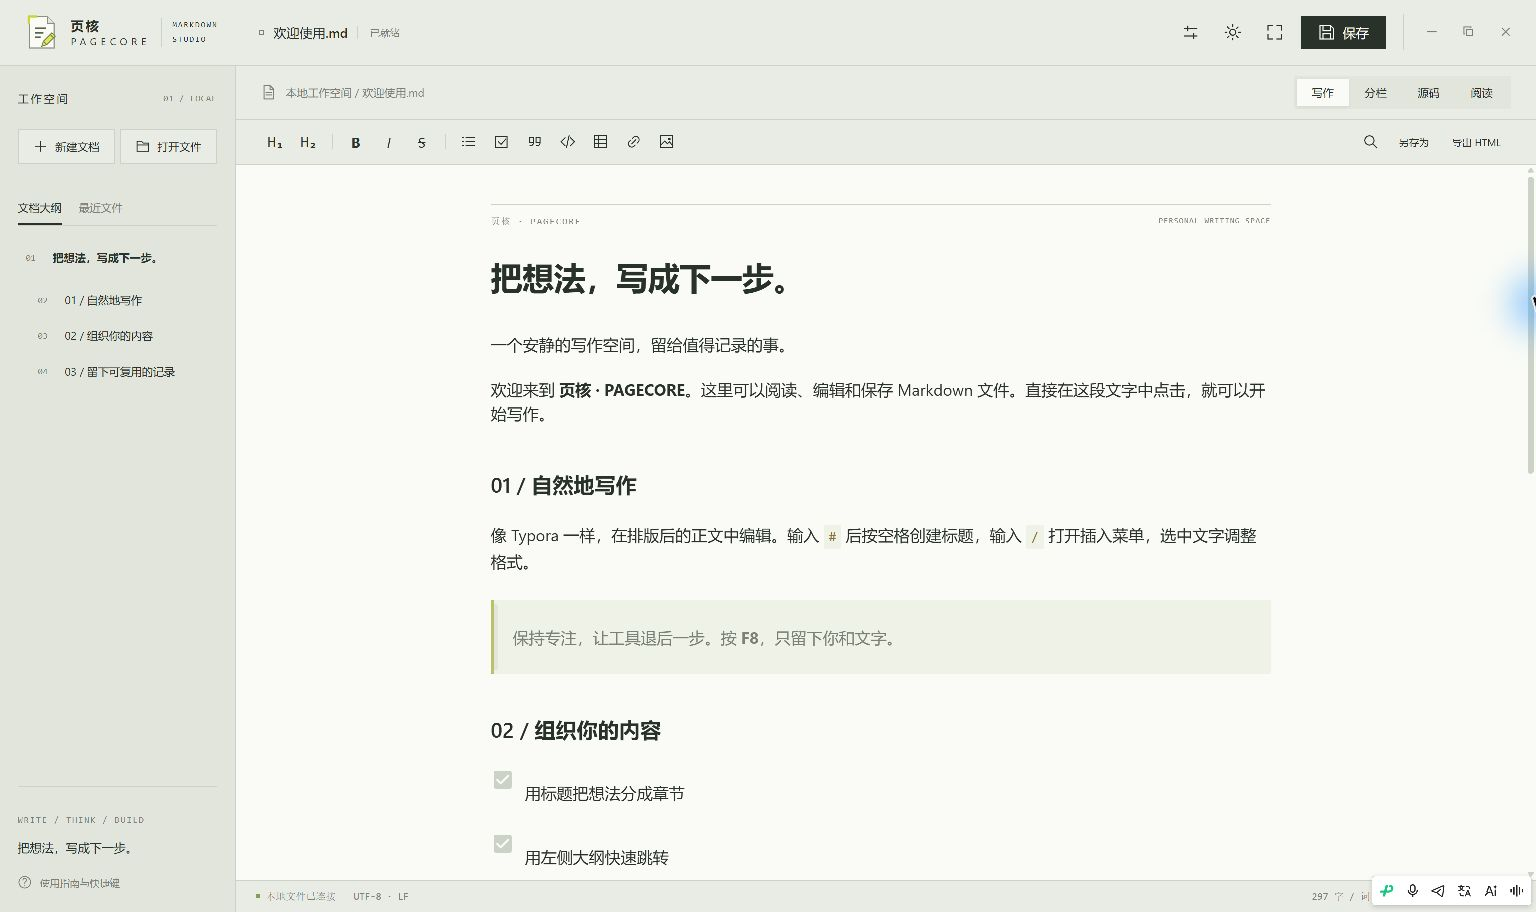
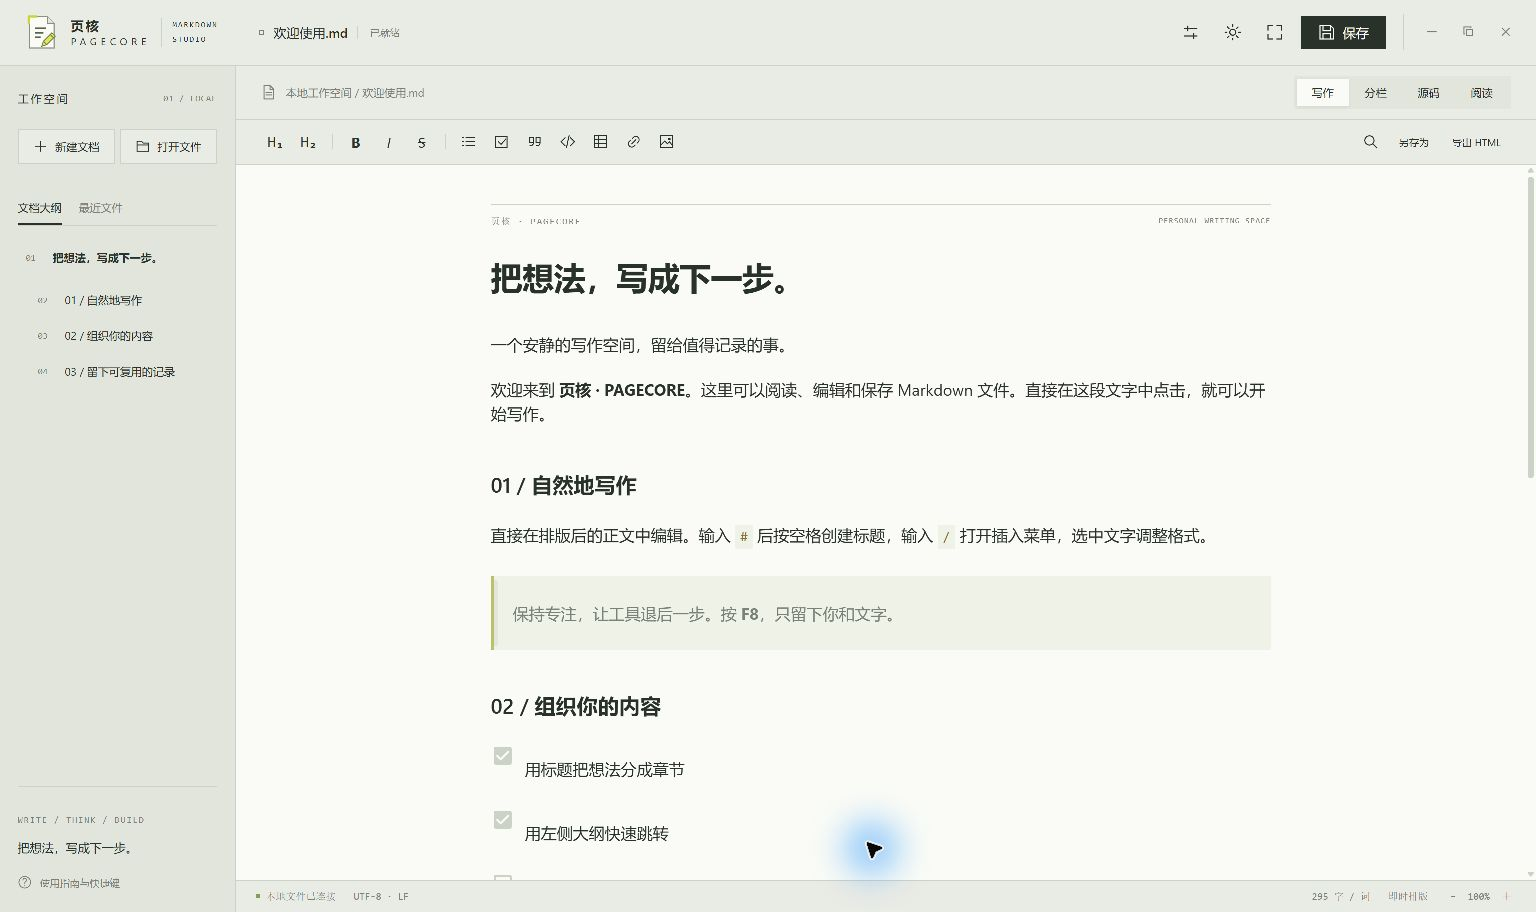
Describe PageCore independently in project introduction

diff --git a/README.md b/README.md
@@ -6,7 +6,7 @@
 
 ![页核写作界面](docs/images/editor.jpg)
 
-页核把即时排版、Markdown 源码和本地文件操作放在一个安静的写作空间里。界面采用浅色工业线条设计、无边框窗口与少量荧光黄点缀，也可切换深色主题。编辑体验参考 Typora；本项目独立开发，与 Typora 无关联。
+页核把即时排版、Markdown 源码和本地文件操作放在一个安静的写作空间里。界面采用浅色工业线条设计、无边框窗口与少量荧光黄点缀，也可切换深色主题。直接在排版后的正文中编辑，让记录与阅读自然衔接。
 
 **当前版本：v0.1.0 预览版 · Windows x64 · MIT**
 
@@ -62,7 +62,7 @@
 - 目前是单文档窗口，尚无多标签、文件夹树、云同步和 PDF/Word 导出。
 - 即时排版编辑可能规范化 Markdown 空行、列表等写法；对原文格式敏感时请使用源码模式。
 - 大于 500 KB、带 YAML 头部或部分复杂 HTML 的文档默认使用源码模式；单文档上限 10 MB，单张内嵌图片上限 4 MB。
-- 未实现 Typora 的全部语法与插件；当前仅提供 Windows x64 构建。
+- 部分扩展语法与插件尚未支持；当前仅提供 Windows x64 构建。
 - 桌面嵌入接口已准备好，当前版本仍为独立应用。
 
 ## 从源码构建

diff --git a/src/welcome.md b/src/welcome.md
@@ -6,7 +6,7 @@
 
 ## 01 / 自然地写作
 
-像 Typora 一样，在排版后的正文中编辑。输入 `#` 后按空格创建标题，输入 `/` 打开插入菜单，选中文字调整格式。
+直接在排版后的正文中编辑。输入 `#` 后按空格创建标题，输入 `/` 打开插入菜单，选中文字调整格式。
 
 > 保持专注，让工具退后一步。按 **F8**，只留下你和文字。
 
